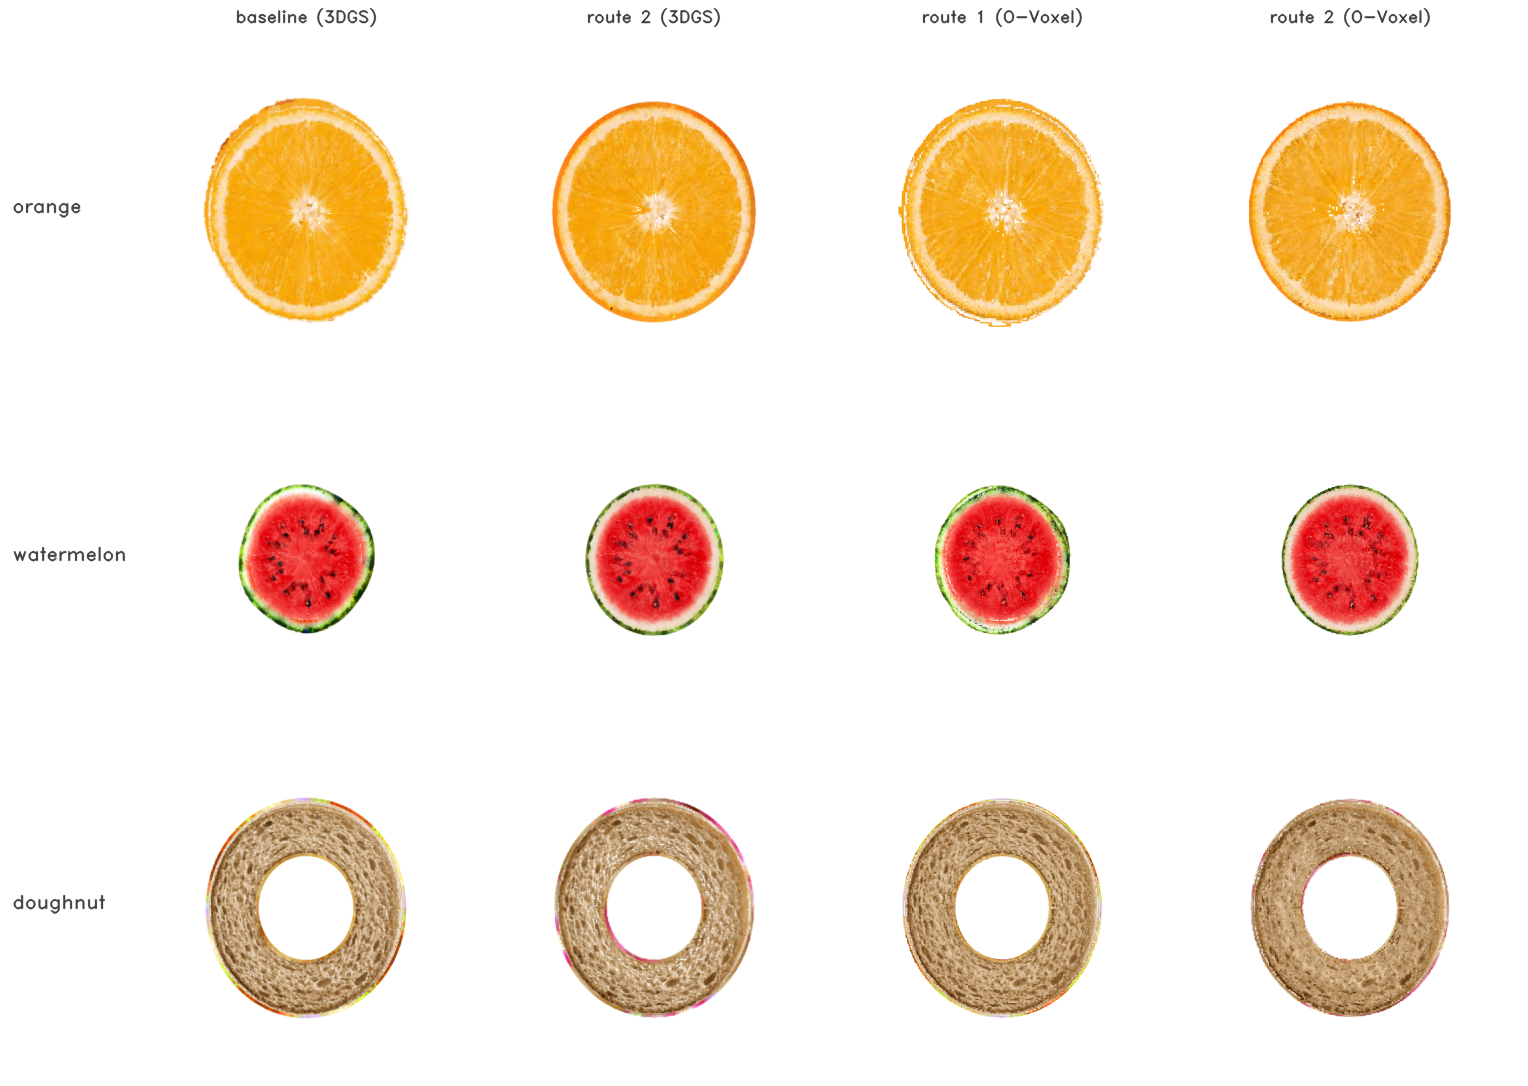
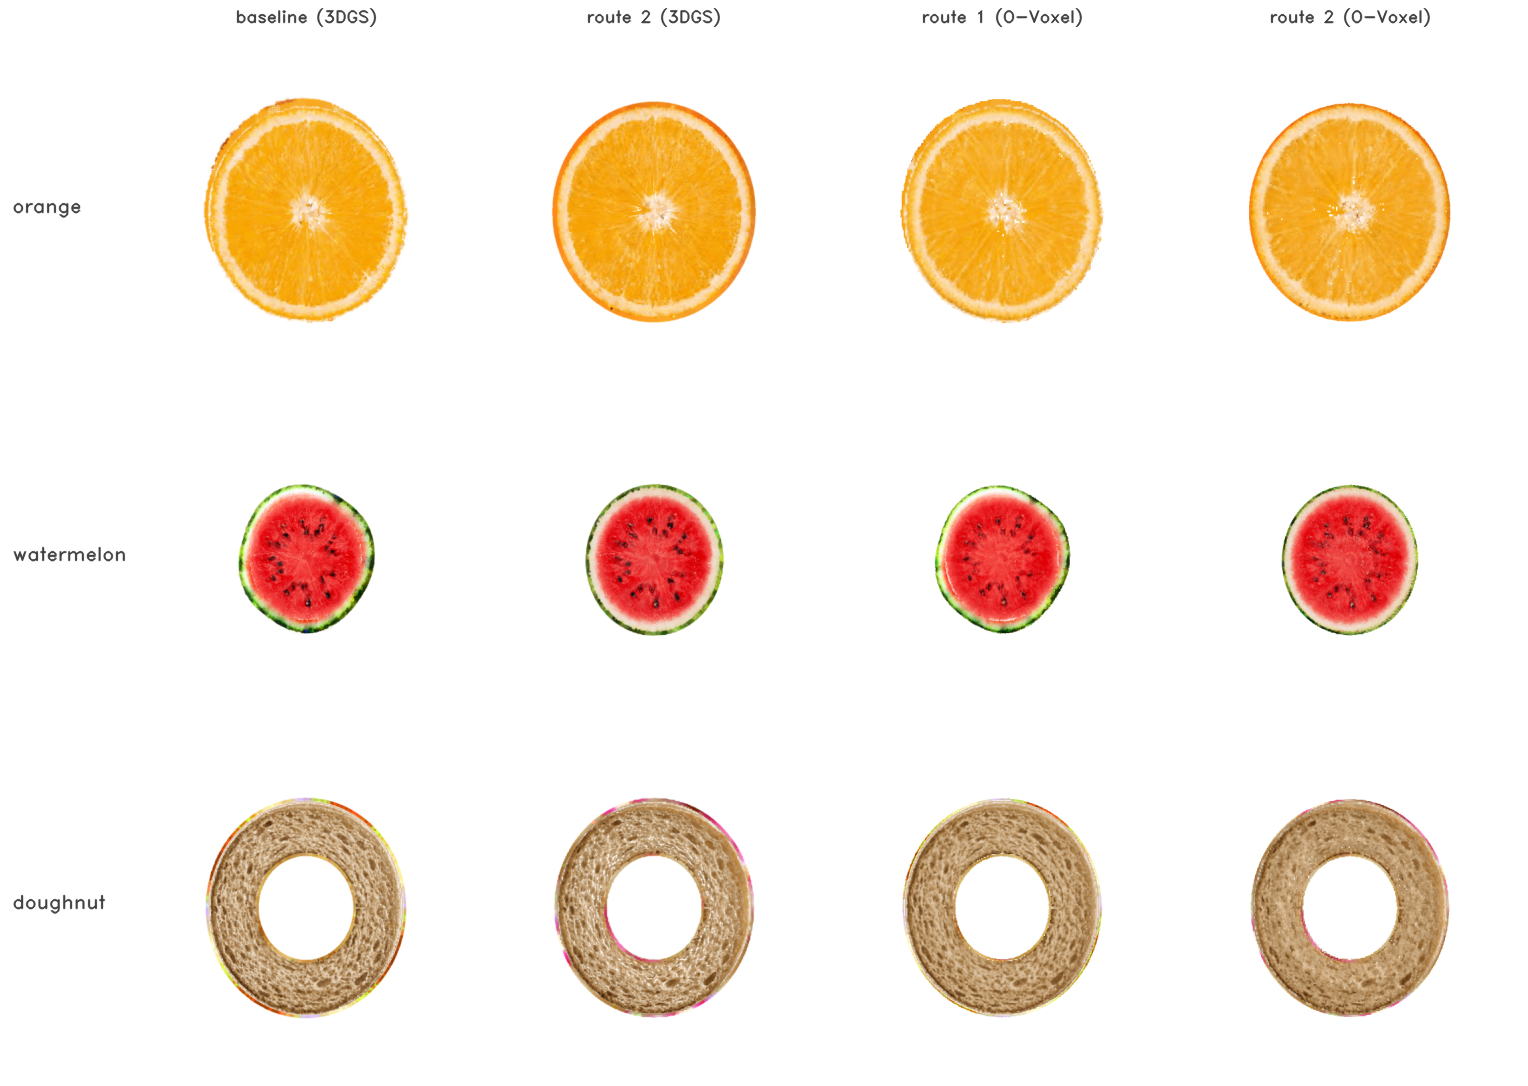
Results: interpolated reconstruction, and what the orange's longitudinal gap is
The cube renderer's remaining gap was not capacity -- route 2 stores 1,231,312 primitives against
the baseline's 877,494 -- but that a cell stores fourteen numbers and the renderer read three.
Trilinear interpolation over the eight surrounding cell centres uses twenty-four per pixel, all
of them the representation's own, and takes fine detail from 18-20e-3 to 15.1-15.7e-3 against the
photographs' 13.0e-3. Dropping the redundant exterior layer for slices did the rest. The route-2
watermelon is now below the Gaussian baseline on both cut families.

The orange's longitudinal gap is characterised rather than fixed, and the characterisation rules
out what it looked like: not the silhouette (aspect 0.823 against the baseline's 0.820, both
short of the photographs' 0.894), not the radial profile, not the poles (route 2 is the more even
of the two). It is the pulp's blue channel -- 0.148 against the photographs' 0.149 transversally,
which is most of why route 2 wins there, and 0.234 against 0.179 longitudinally.

diff --git a/index.html b/index.html
@@ -511,12 +511,12 @@ whether every held-out transverse section still reads as an annulus.</p>
 <thead><tr><th>transverse</th><th></th><th>baseline (3DGS)</th><th>route 2 (3DGS)</th>
 <th>route 1 (O&#8209;Voxel)</th><th>route 2 (O&#8209;Voxel)</th></tr></thead>
 <tbody>
-<tr><td rowspan="3">orange</td><td>FID</td><td>86.4</td><td><strong>66.5</strong></td><td>151.0</td><td>122.3</td></tr>
-<tr><td>KID</td><td>125.0e-3</td><td><strong>88.7e-3</strong></td><td>249.3e-3</td><td>182.7e-3</td></tr>
-<tr><td>CLIP</td><td>31.6</td><td>31.7</td><td>31.1</td><td>32.2</td></tr>
-<tr><td rowspan="3">watermelon</td><td>FID</td><td>187.4</td><td>180.9</td><td>194.2</td><td><strong>178.5</strong></td></tr>
-<tr><td>KID</td><td>233.2e-3</td><td>226.3e-3</td><td>257.0e-3</td><td><strong>224.6e-3</strong></td></tr>
-<tr><td>CLIP</td><td>32.3</td><td>31.9</td><td>33.7</td><td>32.3</td></tr>
+<tr><td rowspan="3">orange</td><td>FID</td><td>86.4</td><td><strong>66.5</strong></td><td>130.5</td><td>107.9</td></tr>
+<tr><td>KID</td><td>125.0e-3</td><td><strong>88.7e-3</strong></td><td>208.4e-3</td><td>158.8e-3</td></tr>
+<tr><td>CLIP</td><td>31.6</td><td>31.7</td><td>30.9</td><td>32.1</td></tr>
+<tr><td rowspan="3">watermelon</td><td>FID</td><td>187.4</td><td>180.9</td><td>188.3</td><td><strong>167.5</strong></td></tr>
+<tr><td>KID</td><td>233.2e-3</td><td>226.3e-3</td><td>234.9e-3</td><td><strong>206.9e-3</strong></td></tr>
+<tr><td>CLIP</td><td>32.3</td><td>31.9</td><td>32.5</td><td>32.2</td></tr>
 <tr><td>doughnut</td><td>annulus</td><td>6/6</td><td>6/6</td><td>6/6</td><td>6/6</td></tr>
 </tbody></table></div>
 
@@ -540,30 +540,51 @@ cross-section photographs, which is what the claim was.</p>
 <thead><tr><th>longitudinal</th><th></th><th>baseline (3DGS)</th><th>route 2 (3DGS)</th>
 <th>route 1 (O&#8209;Voxel)</th><th>route 2 (O&#8209;Voxel)</th></tr></thead>
 <tbody>
-<tr><td rowspan="3">orange</td><td>FID</td><td><strong>147.6</strong></td><td>247.3</td><td>378.7</td><td>416.8</td></tr>
-<tr><td>KID</td><td><strong>175.3e-3</strong></td><td>303.7e-3</td><td>593.6e-3</td><td>653.9e-3</td></tr>
-<tr><td>CLIP</td><td>31.8</td><td>34.2</td><td>31.8</td><td><strong>34.6</strong></td></tr>
-<tr><td rowspan="3">watermelon</td><td>FID</td><td>266.0</td><td><strong>244.4</strong></td><td>347.3</td><td>282.8</td></tr>
-<tr><td>KID</td><td>331.9e-3</td><td><strong>300.9e-3</strong></td><td>508.9e-3</td><td>351.0e-3</td></tr>
-<tr><td>CLIP</td><td>33.4</td><td>33.7</td><td>34.2</td><td><strong>34.7</strong></td></tr>
+<tr><td rowspan="3">orange</td><td>FID</td><td><strong>147.6</strong></td><td>247.3</td><td>292.6</td><td>370.2</td></tr>
+<tr><td>KID</td><td><strong>175.3e-3</strong></td><td>303.7e-3</td><td>437.3e-3</td><td>585.4e-3</td></tr>
+<tr><td>CLIP</td><td>31.8</td><td>34.2</td><td>31.1</td><td><strong>33.8</strong></td></tr>
+<tr><td rowspan="3">watermelon</td><td>FID</td><td>266.0</td><td>244.4</td><td>314.9</td><td><strong>263.5</strong></td></tr>
+<tr><td>KID</td><td>331.9e-3</td><td>300.9e-3</td><td>413.6e-3</td><td><strong>320.1e-3</strong></td></tr>
+<tr><td>CLIP</td><td>33.4</td><td>33.7</td><td>33.6</td><td><strong>34.7</strong></td></tr>
 </tbody></table></div>
 
 <p>The longitudinal family does not repeat the transverse result and is reported because it does
-not. Route 2 still leads on the watermelon, by 8% of FID, but on the orange it is 247.3 against
-the baseline's 147.6 while scoring 34.2 against 31.8 on CLIP &mdash; the picture reads more like
-an orange and matches the photographs' distribution less well. The generated ellipsoid carries the
-object's measured extents but not the shape of its longitudinal profile, and a lengthwise section
-is where that difference lives; a transverse section of a sphere and of an ellipsoid are the same
-picture. This is the sharpest open question the two routes leave, and it is a question about the
-generated topology rather than about the renderer, because it is present in the Gaussian column.
-</p>
+not. Route 2 leads on the watermelon in both renderers, but on the orange it is 247.3 against the
+baseline&rsquo;s 147.6 while scoring 34.2 against 31.8 on CLIP &mdash; the picture reads more like
+an orange and matches the photographs&rsquo; distribution less well. It is not the outline: the
+silhouette&rsquo;s aspect is 0.823 for route 2 and 0.820 for the baseline, both equally short of
+the photographs&rsquo; 0.894, and the radial luminance profile from centre to rind is the same
+curve in all three. It is not the poles either, where a skin painted from six views would be most
+exposed &mdash; the outer band differs between poles and sides by &minus;0.034 for route 2 against
+&minus;0.056 for the baseline, so route 2 is the more even of the two. What does differ is the
+colour of the pulp, and the transverse family says the same thing from the other side:</p>
+
+<div class="tw"><table>
+<thead><tr><th>pulp, blue channel</th><th>photographs</th><th>baseline</th><th>route 2</th></tr></thead>
+<tbody>
+<tr><td>transverse</td><td>0.149</td><td>0.168</td><td><strong>0.148</strong></td></tr>
+<tr><td>longitudinal</td><td>0.179</td><td>0.221</td><td>0.234</td></tr>
+</tbody></table></div>
+
+<p>Blue is the channel that separates orange pulp from pale pith, and route 2 matches the
+photographs almost exactly across the transverse family &mdash; 0.148 against 0.149, where the
+baseline sits at 0.168 &mdash; which is most of why it wins there. Along the other axis it
+overshoots instead, 0.234 against 0.179, and the baseline overshoots less. Fine detail tells the
+same story: 13.1e&#8209;3 in the photographs, 17.6e&#8209;3 in the baseline and 19.1e&#8209;3 in
+route 2, where transversally the three are 13.0, 13.8 and 15.2. Longitudinal sections are harder
+for both models &mdash; the baseline&rsquo;s own FID nearly doubles between the two families
+&mdash; and route 2 is further out on the axis it is already worse on. This is a property of the
+trained interior and not of the renderer, because it is present in the Gaussian column, and it is
+the sharpest question the two routes leave open.</p>
 
 <h3>The exterior, with no Gaussians in it</h3>
 
 <p>The cuts measure the interior. The claim that the appearance is independent of Gaussian
 training is a claim about the outside, and a shell can be right in every section and still be
 wrong where two views meet &mdash; a section never looks at a seam. These are the six directions
-the painting used, drawn from the dual-grid surface.</p>
+the painting used, drawn from the dual-grid surface. This is also what the exterior representation
+is for: a slice does not need it, because the rind a slice shows is the slab&rsquo;s own skin
+cells, but the whole object does.</p>
 
 <figure>
   <img src="assets/ext_ovox_orange.png" alt="The orange's O-Voxel exterior in six views">
@@ -592,18 +613,28 @@ far half's own peel showed from behind. The second was visible only in the longi
 doughnut's two lobes were joined by a slab of icing, because the baseline rasterises a band about
 the plane &mdash; it draws a slice &mdash; while this renderer was drawing the whole surviving
 half, whose inner surface projects straight into the hole. Defining the face as the first material
-the ray meets past the plane, and the exterior as the same slab the baseline uses, leaves nothing
-to tune in either. Two renderers that disagree about which model is better are reporting a defect
-in one of them, not a property of either model.</div>
+the ray meets past the plane leaves nothing to tune. The third followed from the second: once the
+exterior was restricted to the baseline&rsquo;s slab it was drawing the same rind the face march
+already reaches, and drawing the layers apart showed the face alone was the baseline&rsquo;s
+picture while the exterior alone was that ring and nothing else. It is off for slices now and
+kept for whole-object rendering, which is a different question. Two renderers that disagree about
+which model is better are reporting a defect in one of them, not a property of either model.</div>
 
-<p>What remains between the O&#8209;Voxel columns and the rasteriser is a rendering gap rather
-than a missing interior, and it is measurable as such: fine detail inside the section, against the
-photographs&rsquo; 13.0e&#8209;3, is 13.8e&#8209;3 for the rasteriser and 18e&#8209;3 to
-20e&#8209;3 here. One ray per pixel reading one flat colour per cell is nearest&#8209;neighbour
-reconstruction of a piecewise&#8209;constant field; overlapping anisotropic kernels average
-several primitives into every pixel and never show it. Interpolating between cell centres is the
-next thing to try, and the transverse watermelon &mdash; 178.5 against the baseline&rsquo;s 187.4
-&mdash; is the evidence that the representation is not what is in the way.</p>
+<p>What remains between the O&#8209;Voxel columns and the rasteriser is not capacity. The route-2
+orange stores 1,231,312 primitives against the baseline&rsquo;s 877,494, 65.8&nbsp;MiB against
+46.9. What was small was the use: a cell stores fourteen numbers and the first version of this
+renderer read three of them. The other eleven are the scale and the rotation, which is the
+primitive&rsquo;s shape, and a shape is a reconstruction filter &mdash; on these models
+\(\sigma/h\) has median 0.26, so the rasteriser is not blurring across cells; what it has is
+anisotropy, median 116 to 1, inside them.</p>
+
+<p>Trilinear interpolation over the eight surrounding cell centres puts twenty-four numbers into
+every pixel, more than the rasteriser&rsquo;s fourteen and all of them the cube
+representation&rsquo;s own, with no Gaussian introduced. Fine detail inside the section falls from
+18&ndash;20e&#8209;3 to 15.1&ndash;15.7e&#8209;3 against the photographs&rsquo; 13.0e&#8209;3 and
+the rasteriser&rsquo;s 13.8e&#8209;3. The route-2 watermelon then sits below the Gaussian baseline
+on both families, 167.5 against 187.4 and 263.5 against 266.0, which is the claim this section
+exists to test: the representation is not what is in the way.</p>
 
 <p class="mut">The doughnut&rsquo;s route&nbsp;1 model is the 30-iteration run the baseline was
 established with; every other model in these tables was trained for 200. KID is quoted from a
